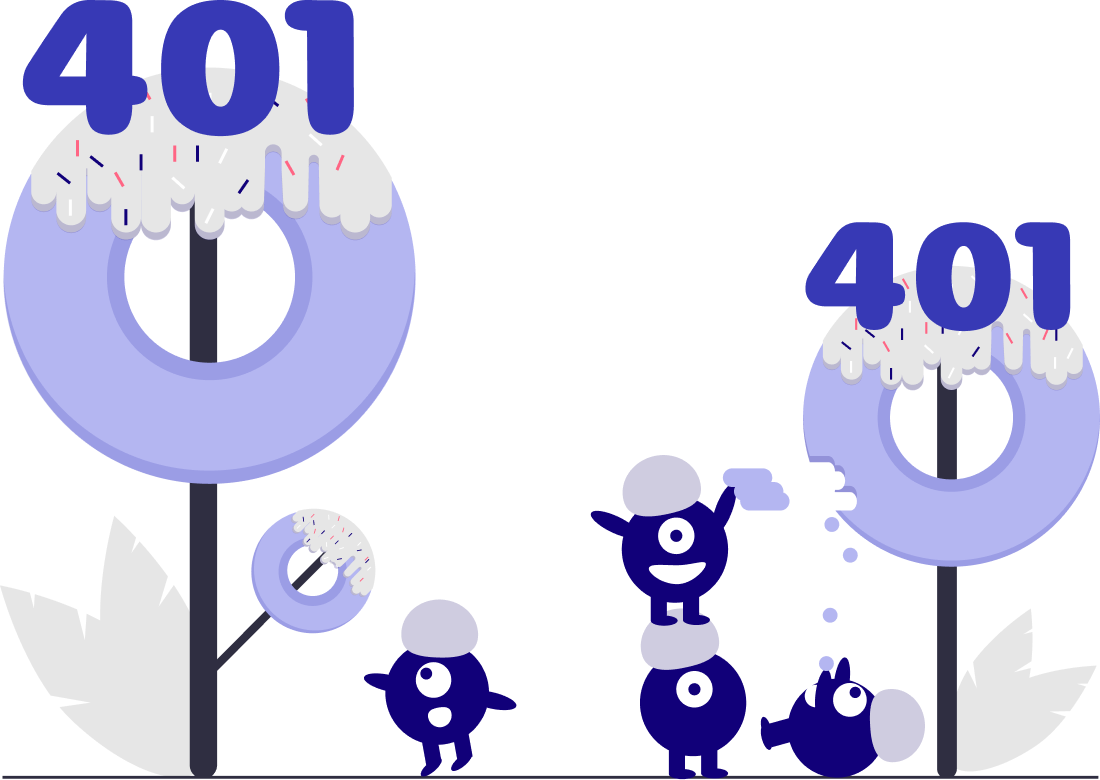
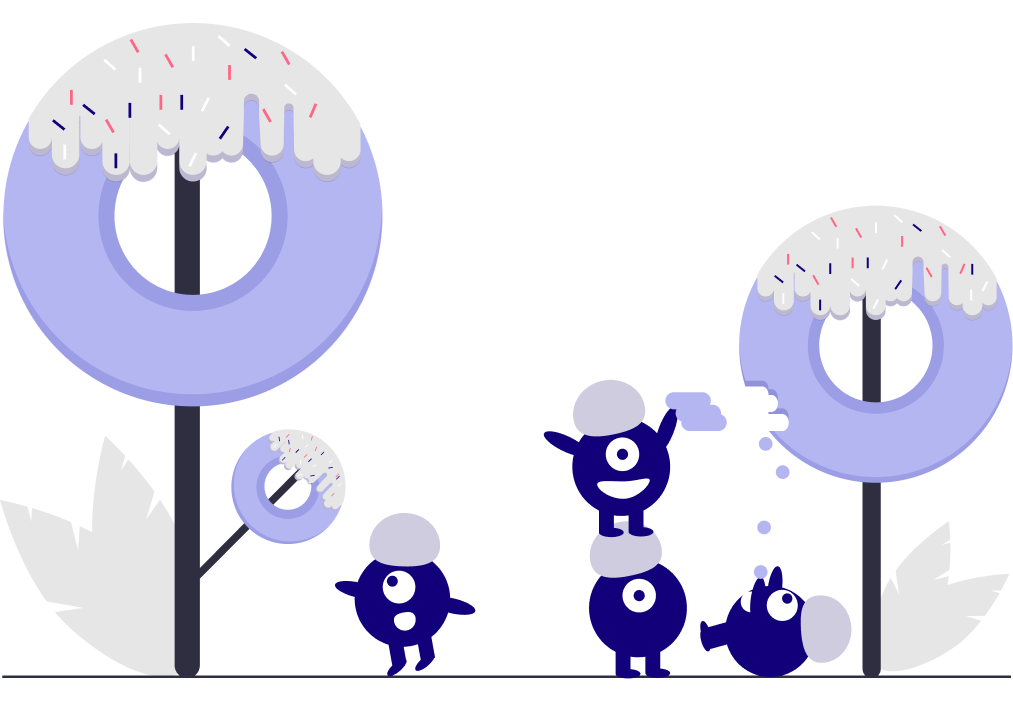
Feature/222 unauth attempt (#560)
* feat: [222] Update 404 and 401 illustrations

* feat: [222] Fix weird case of userProfile being cached, so will just grab it on demand for now

* feat: [222] Fix issue where user just signed out and tries to access authenticed routes, added a loading bar for when we're waiting for auth status, also cleaned and simplified code

diff --git a/src/app/model/permissions/UserPermissionsService.ts b/src/app/model/permissions/UserPermissionsService.ts
@@ -2,7 +2,7 @@ import user, { User } from "../User";
 import { PERMISSIONS } from ".";
 import { UserInterface } from "../schema";
 import { organizerEntitlements, userEntitlements, volunteerEntitlements } from "./UserEntitlements";
-import { isEmpty, isLoaded } from "react-redux-firebase";
+import { FirebaseReducer, isEmpty, isLoaded } from "react-redux-firebase";
 
 export enum USER_ROLES {
   ORGANIZER = "ORGANIZER",
@@ -12,79 +12,43 @@ export enum USER_ROLES {
 }
 
 export class UserPermissionsService {
-  private _userInfo$: Promise<USER_ROLES> | undefined;
-  private _auth: AuthState = null;
-  private _role: USER_ROLES | undefined;
   private _userInfo: UserInterface | undefined;
-  private _isAuthenticated(): boolean {
-    return isLoaded(this._auth) && !isEmpty(this._auth);
-  }
-  private _userPermissions: PERMISSIONS[] = [];
 
-  private _setPermissions(role: USER_ROLES): void {
-    switch (role) {
-      case USER_ROLES.ORGANIZER:
-        this._userPermissions = organizerEntitlements;
-        break;
-      case USER_ROLES.VOLUNTEER:
-        this._userPermissions = volunteerEntitlements;
-        break;
-      case USER_ROLES.USER:
-        this._userPermissions = userEntitlements;
-        break;
-      case USER_ROLES.ANONYMOUS:
-      default:
-        this._userPermissions = [PERMISSIONS.PUBLIC];
-        break;
-    }
+  private _isAuthenticated(auth: FirebaseReducer.AuthState): boolean {
+    return isLoaded(auth) && !isEmpty(auth);
   }
-
   constructor(private _user: User) {}
 
-  public getUserRole(auth: AuthState): Promise<USER_ROLES> {
-    this._auth = auth;
-    if (this._isAuthenticated()) {
-      if (!this._userInfo$) {
-        this._userInfo$ = this._user.getUserProfile(auth.uid).then((userProfile) => {
-          this._userInfo = userProfile;
-          this.setUserInfo(userProfile).setRole(userProfile);
-          // console.debug("ROLE", { role: this.userRole, profile: userProfile });
-          return this.userRole;
-        });
-      }
-      return this._userInfo$;
+  public getUserRole(auth: FirebaseReducer.AuthState): Promise<USER_ROLES> {
+    if (this._isAuthenticated(auth)) {
+      return this._user.getUserProfile(auth.uid).then((userProfile) => {
+        this._userInfo = userProfile;
+        // console.debug("ROLE", { role: this.role, profile: userProfile });
+        return this.role;
+      });
     } else {
-      return Promise.resolve(USER_ROLES.ANONYMOUS);
+      this._userInfo = undefined;
+      return Promise.resolve(this.role);
     }
-  }
-
-  public setUserInfo(userInfo: UserInterface): UserPermissionsService {
-    this._userInfo = userInfo;
-    return this;
-  }
-
-  public setRole(userInfo: UserInterface): UserPermissionsService {
-    if (userInfo) {
-      if (userInfo.isOrganizer) {
-        this._role = USER_ROLES.ORGANIZER;
-      } else if (userInfo.isVolunteer) {
-        this._role = USER_ROLES.VOLUNTEER;
-      } else {
-        this._role = USER_ROLES.USER;
-      }
-    } else {
-      this._role = USER_ROLES.ANONYMOUS;
-    }
-    this._setPermissions(this._role);
-    return this;
   }
 
   public hasPermission(checkPermission: PERMISSIONS): boolean {
-    return this._userPermissions.some((permission: PERMISSIONS) => permission === checkPermission);
+    return this.permissions.some((permission: PERMISSIONS) => permission === checkPermission);
   }
 
-  public get userRole(): USER_ROLES {
-    return this._role as USER_ROLES;
+  public get role(): USER_ROLES {
+    const userInfo: UserInterface = this.userInfo;
+    if (userInfo) {
+      if (userInfo.isOrganizer) {
+        return USER_ROLES.ORGANIZER;
+      } else if (userInfo.isVolunteer) {
+        return USER_ROLES.VOLUNTEER;
+      } else {
+        return USER_ROLES.USER;
+      }
+    } else {
+      return USER_ROLES.ANONYMOUS;
+    }
   }
 
   public get userInfo(): UserInterface {
@@ -92,9 +56,18 @@ export class UserPermissionsService {
   }
 
   public get permissions(): PERMISSIONS[] {
-    return this._userPermissions;
+    switch (this.role) {
+      case USER_ROLES.ORGANIZER:
+        return organizerEntitlements;
+      case USER_ROLES.VOLUNTEER:
+        return volunteerEntitlements;
+      case USER_ROLES.USER:
+        return userEntitlements;
+      case USER_ROLES.ANONYMOUS:
+      default:
+        return [PERMISSIONS.PUBLIC];
+    }
   }
 }
-type AuthState = any;
 
 export default new UserPermissionsService(user);

diff --git a/src/app/routing/components/AppRoute.jsx b/src/app/routing/components/AppRoute.jsx
@@ -3,21 +3,29 @@ import React, { useState } from "react";
 import { useSelector } from "react-redux";
 import { Redirect, Route } from "react-router-dom";
 import { isLoaded } from "react-redux-firebase";
+import { makeStyles } from "@material-ui/core/styles";
+import LinearProgress from "@material-ui/core/LinearProgress";
 
 import RoutingService from "../services/RoutingService";
 import { UserPermissionsService } from "../../model/permissions";
 
+const loadingStyles = makeStyles((theme) => ({
+  root: {
+    width: "100%",
+  },
+}));
+
 function AppRoute({ children, component, ...rest }) {
+  const classes = loadingStyles();
   const auth = useSelector((state) => state.firebase.auth);
   const [userRole, setUserRole] = useState(null);
 
-  UserPermissionsService.getUserRole(auth).then((role) => {
-    setUserRole(role);
-  });
-
   const handleRender = ({ location }) => {
     let routeAccess;
-    if (isLoaded(auth) && userRole) {
+    UserPermissionsService.getUserRole(auth).then((role) => {
+      setUserRole(role);
+    });
+    if (isLoaded(auth) && userRole === UserPermissionsService.role) {
       routeAccess = RoutingService.canAccessRoute(location.pathname);
     }
     if (routeAccess) {
@@ -37,6 +45,12 @@ function AppRoute({ children, component, ...rest }) {
           />
         );
       }
+    } else {
+      return (
+        <div className={classes.root}>
+          <LinearProgress />
+        </div>
+      );
     }
   };
 

diff --git a/src/app/routing/services/RoutingService.ts b/src/app/routing/services/RoutingService.ts
@@ -96,8 +96,4 @@ export interface IRouteEntitlement {
   route: IRoute;
   permissionGranted: boolean;
 }
-export interface AuthState {
-  isLoaded?: boolean;
-  isEmpty?: boolean;
-}
 export default new RoutingService(routes, ROUTE_PERMISSIONS, userPermissionsService);
